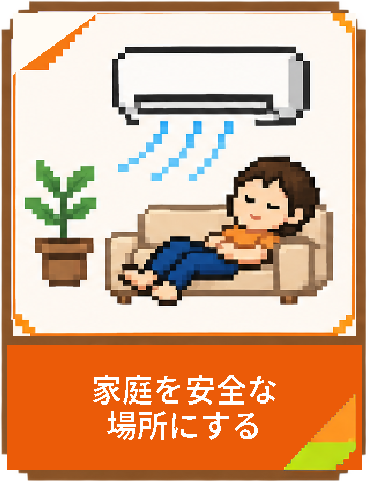
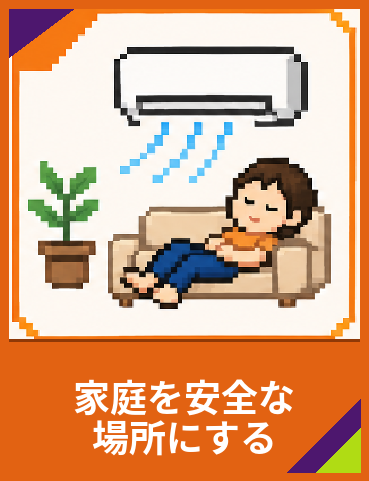
熱中症サブカードを確定画像へ差し替え

diff --git a/pages/priorities.html b/pages/priorities.html
@@ -78,7 +78,7 @@ title: 重点課題
 <style>
 .priority-heading-band{display:grid;grid-template-columns:max-content minmax(0,1fr);align-items:center;gap:clamp(1rem,5vw,3rem);margin:0 0 1.2rem;padding:.3rem .2rem .4rem;border-bottom:1px solid #e7dced}
 .priority-heading-band h1{margin:0;white-space:nowrap;font-size:clamp(1.28rem,4.8vw,2rem);line-height:1.15}
-.priority-index{display:grid;grid-template-columns:repeat(2,minmax(0,1fr));gap:.3rem .4rem;justify-self:end;width:min(100%,760px);margin:0 0 0 auto}
+.priority-index{display:grid;grid-template-columns:repeat(2,minmax(0,1fr));gap:.3rem .4rem;justify-self:end;width:min(100%,680px);margin:0 0 0 auto}
 .priority-index a{display:block;min-width:0;padding:.15rem .12rem .12rem;border-bottom:1px solid #cbb7d6;color:#4d176e;font-size:clamp(.68rem,1.65vw,.8rem);font-weight:700;line-height:1.15;text-decoration:none;white-space:nowrap;transition:border-color .15s,color .15s}
 .priority-index a:hover,.priority-index a:focus-visible{border-color:#7c3b9c;color:#7c3b9c}
 .priority-grid{display:grid;gap:1.2rem;grid-template-columns:1fr}
@@ -113,7 +113,7 @@ title: 重点課題
 .priority-card--heatstroke__panels li{min-width:0;line-height:0}
 .priority-card--heatstroke__panels img{display:block;width:100%;height:auto;image-rendering:pixelated}
 @media(max-width:430px){
-  .priority-heading-band{grid-template-columns:max-content minmax(0,1fr);gap:.8rem;margin-bottom:1rem;padding:.25rem 0 .32rem}
+  .priority-heading-band{grid-template-columns:max-content minmax(0,1fr);gap:1rem;margin-bottom:1rem;padding:.25rem 0 .32rem}
   .priority-heading-band h1{font-size:1.18rem;letter-spacing:-.05em}
   .priority-index{gap:.24rem}
   .priority-index a{padding:.12rem .08rem .1rem;font-size:.59rem;letter-spacing:-.055em}
